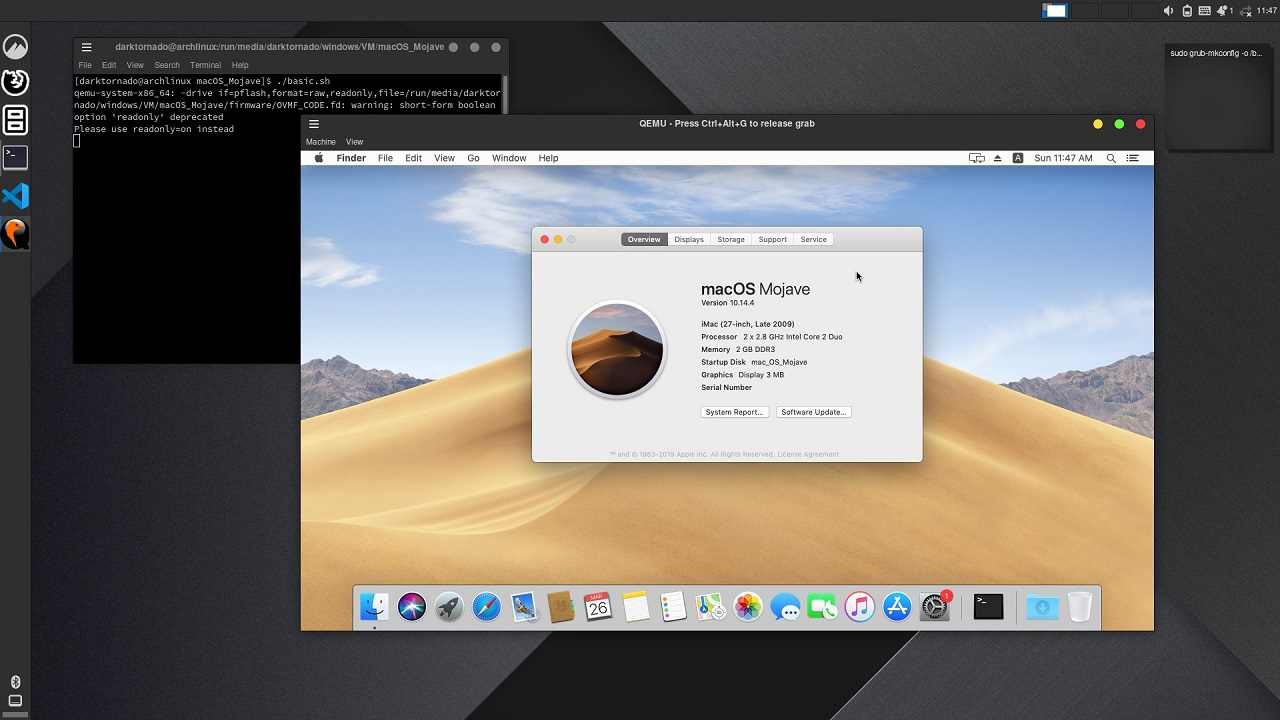
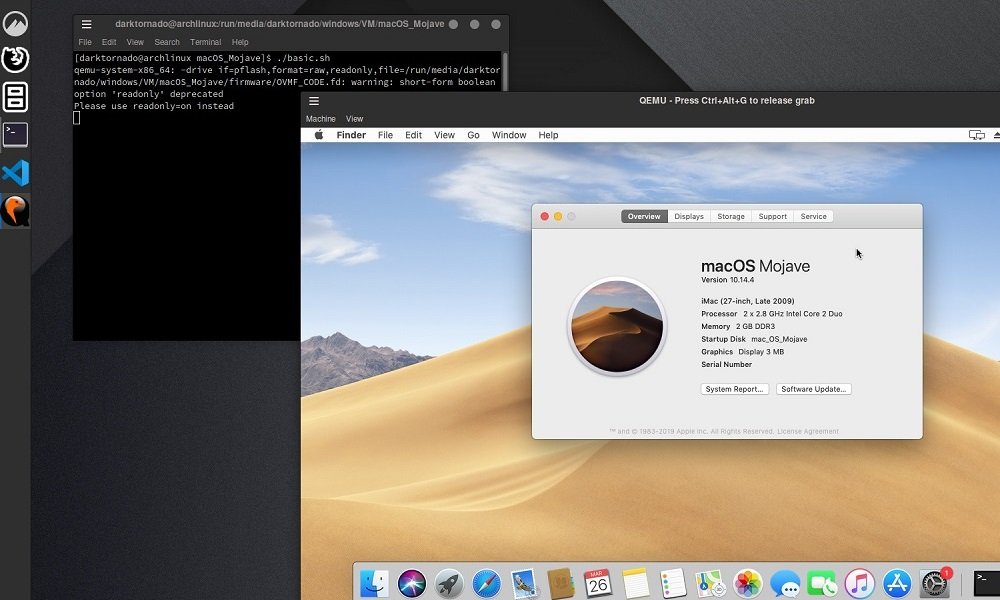
이미지 용량 감소

diff --git a/_posts/2023-03-27-kvm-macos.md b/_posts/2023-03-27-kvm-macos.md
@@ -71,7 +71,7 @@ $ qemu-img create -f qcow2 {파일명}.qcow2 {용량}G
 ```
 $ ./basic.sh 
 ```
-![image]({{site.url}}{{site.baseurl}}/assets/images/kvm-macos/7.png)
+![image]({{site.url}}{{site.baseurl}}/assets/images/kvm-macos/7.jpg)
 
 ***
 
@@ -123,7 +123,7 @@ $ OpenCore-Boot
 <br>
 이렇게
 
-![image]({{site.url}}{{site.baseurl}}/assets/images/kvm-macos/14.png)
+![image]({{site.url}}{{site.baseurl}}/assets/images/kvm-macos/14.jpg)
 
 ***
 
@@ -136,7 +136,7 @@ $ OpenCore-Boot
 <br>
 이 화면이 나오면
 
-![image]({{site.url}}{{site.baseurl}}/assets/images/kvm-macos/16.png)
+![image]({{site.url}}{{site.baseurl}}/assets/images/kvm-macos/16.jpg)
 
 <br>
 `Disk Utility` 실행
@@ -177,7 +177,7 @@ $ OpenCore-Boot
 <br>
 그러면 설치가 시작되는거에요.
 
-![image]({{site.url}}{{site.baseurl}}/assets/images/kvm-macos/24.png)
+![image]({{site.url}}{{site.baseurl}}/assets/images/kvm-macos/24.jpg)
 
 <br>
 동의
@@ -262,7 +262,7 @@ $ OpenCore-Boot
 <br>
 밝은 테마, 어두운 테마 중 고르는거에요. 어두운 테마는 `Mojave`에서 추가된지라, `Mojave`보다 낮은 버전을 사용했다면 이 화면이 나오지 않았을거에요.
 
-![image]({{site.url}}{{site.baseurl}}/assets/images/kvm-macos/41.png)
+![image]({{site.url}}{{site.baseurl}}/assets/images/kvm-macos/41.jpg)
 
 <br>
 슉슈슉
@@ -272,12 +272,12 @@ $ OpenCore-Boot
 <br>
 와! 맥이 켜졌어요! 이건 키보드 레이아웃 잡는건데 그냥 누르라는거 누르시면 됩니다.
 
-![image]({{site.url}}{{site.baseurl}}/assets/images/kvm-macos/43.png)
+![image]({{site.url}}{{site.baseurl}}/assets/images/kvm-macos/43.jpg)
 
 <br>
 히히 맥이다 맥
 
-![image]({{site.url}}{{site.baseurl}}/assets/images/kvm-macos/44.png)
+![image]({{site.url}}{{site.baseurl}}/assets/images/kvm-macos/44.jpg)
 
 <br>
 이후 부팅할 때는 아까 맥을 설치할 때 선택했던 가상 디스크를 고르시면 되는거에요.
@@ -349,12 +349,12 @@ $ sudo diskutil mount {파티션이름}
 <br>
 굳
 
-![image]({{site.url}}{{site.baseurl}}/assets/images/kvm-macos/56.png)
+![image]({{site.url}}{{site.baseurl}}/assets/images/kvm-macos/56.jpg)
 
 <br>
 `Ctrl + Alt + F` 단축키를 통해 전체화면으로 설정할 수 있어요. 딜레이도 거의 없어서 그냥 맥북처럼 쓸 수 있어요.
 
-![image]({{site.url}}{{site.baseurl}}/assets/images/kvm-macos/57.png)
+![image]({{site.url}}{{site.baseurl}}/assets/images/kvm-macos/57.jpg)
 
 <br>
 `OSX-KVM`은 클로바를 안쓰는 것 같은지라 전 몰?루
